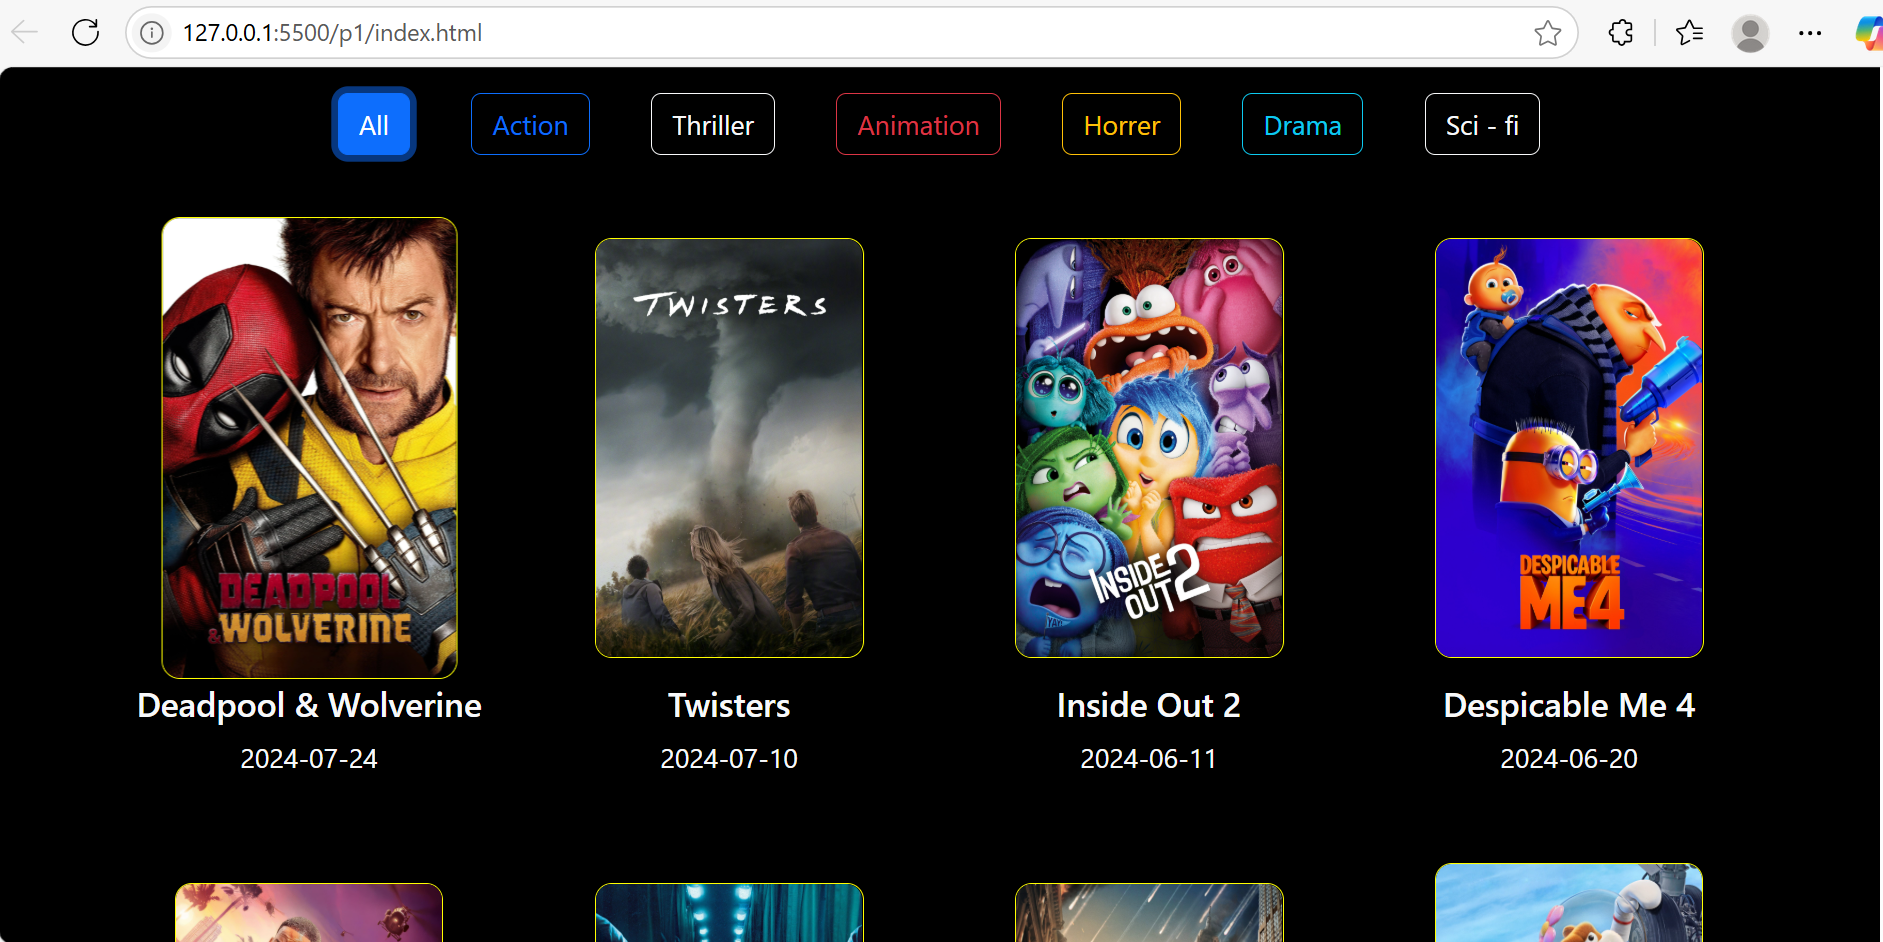
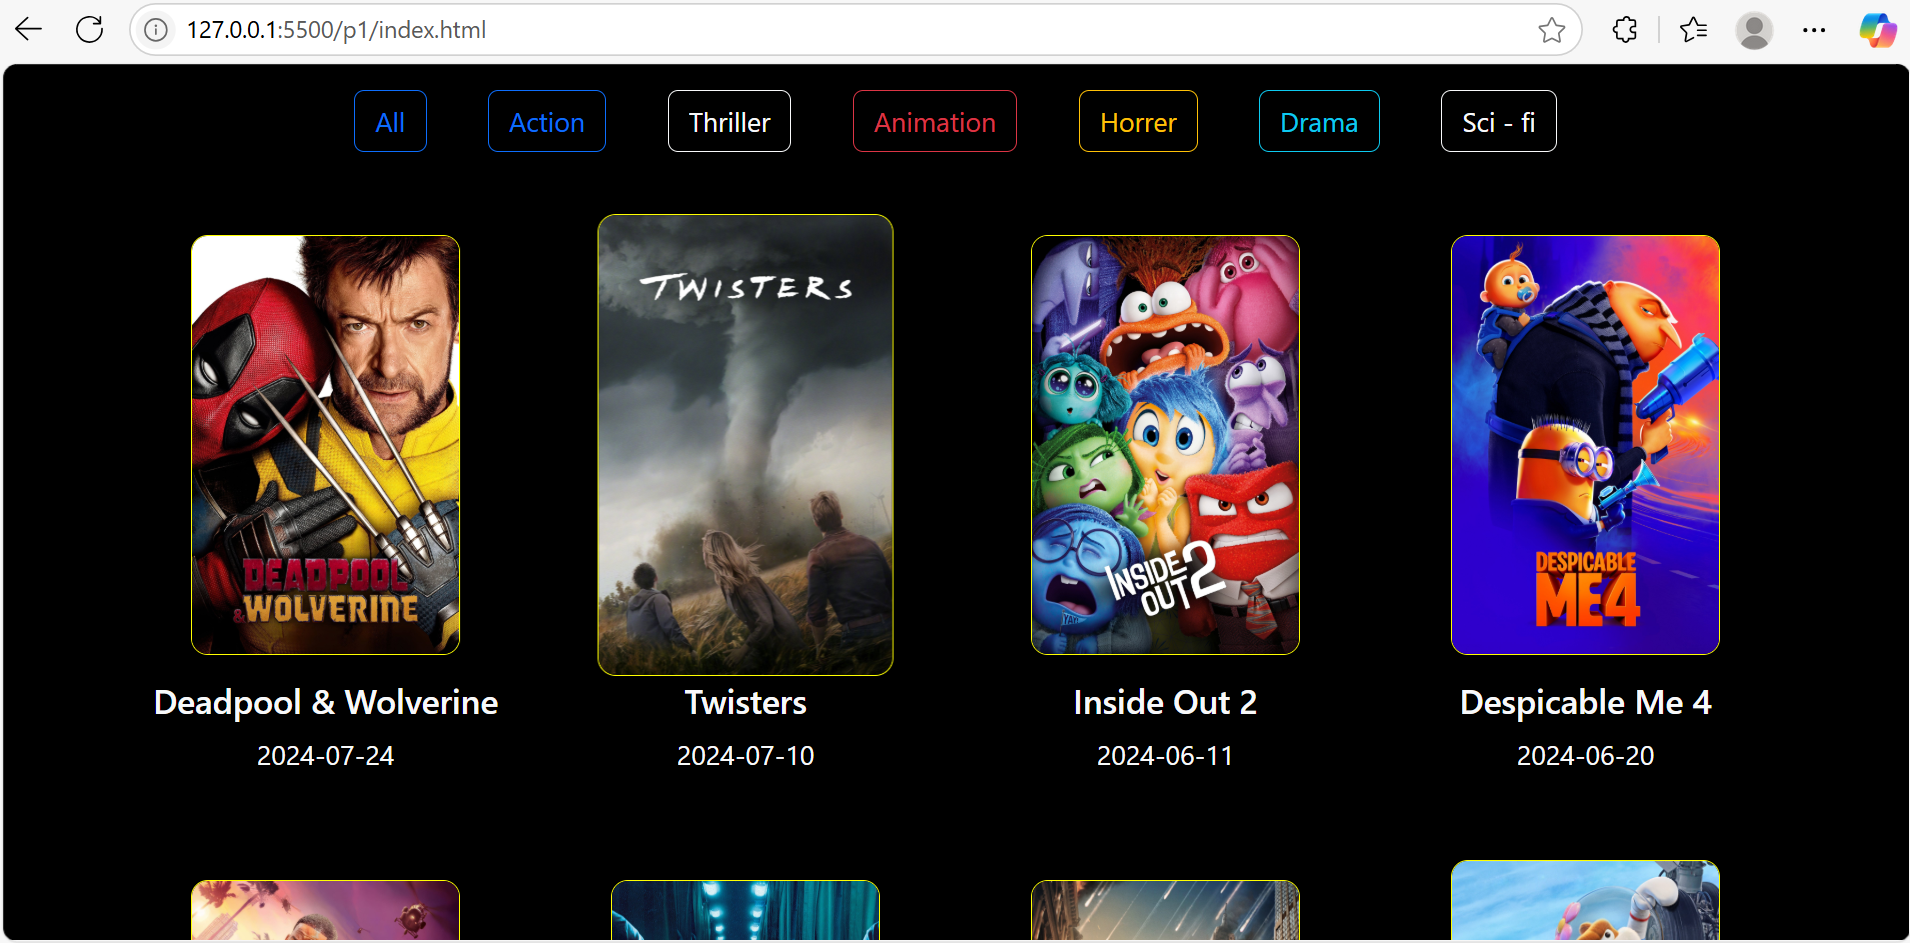
Merge main into feature + resolved conflicts

diff --git a/index.html b/index.html
@@ -8,11 +8,12 @@
   </head>
   <body>
     <header>
-      <h1>See All My frunt End here</h1>
-      <p>A showcase of all my practice work of june</p>
+      <h1>See All My Fruntend with HTML CSS and Javascript</h1>
+      <br />
+      <p>A showcase of all my practice work of june 2025</p>
     </header>
     <section class="month-section">
-      <h2>June 2025</h2>
+      <h2></h2>
       <div class="project-grid">
         <div class="projet-card">
           <img src="screenshots/p1.png" alt="Project 1" />
@@ -22,12 +23,21 @@
             <p>used filter for array manupulation.</p>
           </div>
         </div>
+
         <div class="projet-card">
           <img src="screenshots/p2.png" alt="Project 1" />
           <a href="p2/index.html" class="title">Image changer</a>
           <div class="des">
             <h5>8 june</h5>
             <p>Used mouseover and mouseleave event</p>
+          </div>
+        </div>
+        <div class="projet-card">
+          <img src="screenshots/p3.png" alt="Project 1" />
+          <a href="p2/index.html" class="title">Image changer</a>
+          <div class="des">
+            <h5>8 june</h5>
+            <p>Used api to fetch all data</p>
           </div>
         </div>
       </div>

diff --git a/style.css b/style.css
@@ -12,6 +12,12 @@ html body {
   line-height: 1.6;
   padding: 1rem;
 }
+header {
+  display: flex;
+  flex-direction: column;
+  align-items: center;
+  justify-content: center;
+}
 header h1 {
   font-size: 2.5rem;
   color: #f7f8fa;
@@ -19,6 +25,7 @@ header h1 {
 header p {
   font-size: 1.1rem;
   color: #f9f6f6;
+  padding: 0.2rem;
 }
 .month-section {
   margin-bottom: 3rem;
@@ -37,8 +44,8 @@ header p {
 }
 
 .projet-card {
-  width: 220px;
-  height: 300px;
+  width: 200px;
+  height: 220px;
   margin: 0 10px;
   border-radius: 12px;
   box-shadow: 0 4px 1px rgba(0, 0, 0, 0.08);
@@ -47,21 +54,23 @@ header p {
   align-items: center;
   justify-content: center;
   transition: 0.7s ease;
-  border: 1px solid blue;
+  border: 1.5px solid rgba(224, 252, 84, 0.676);
 }
 .projet-card :hover {
   transform: scale(1.1) translateZ(50px);
 }
 img {
   display: block;
+  margin-left: 10px;
+  margin-top: 5px;
   width: 140px;
-  height: 230px;
+  height: 200px;
   border-radius: 10px;
   border: 1.5px solid yellow;
 }
 .projet-card img {
-  width: 100%;
-  height: 180px;
+  width: 90%;
+  height: 90px;
   border-bottom: 1.5px solid #eee;
   transition: transform 0.7s ease;
   transform: translateZ(0);

diff --git a/p3/script2.js b/p3/script2.js
@@ -1,3 +1,5 @@
+//fetching data with api
+
 let food = document.querySelector(".food");
 let indian = document.querySelector("#indian");
 let canadian = document.querySelector("#canadian");
